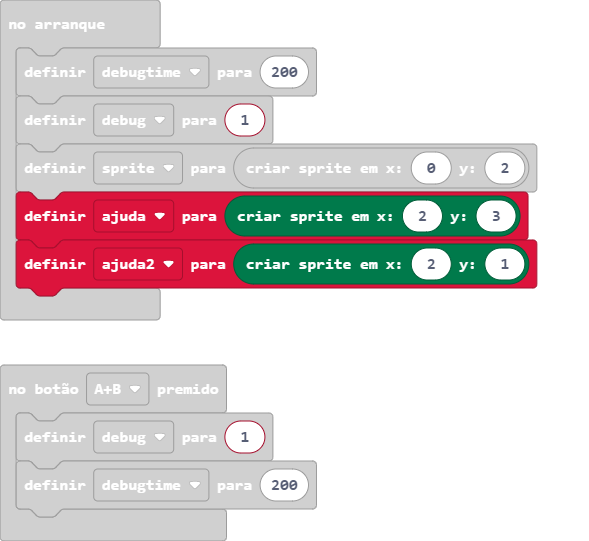
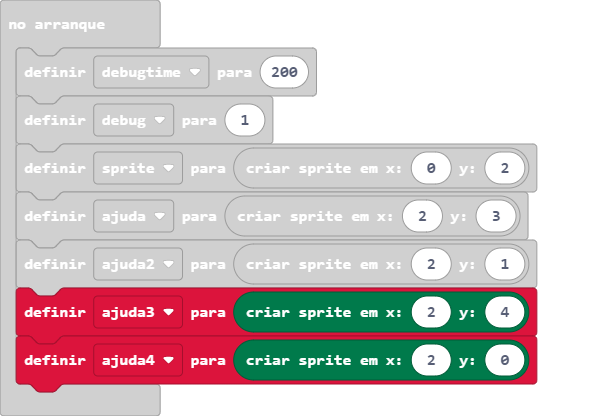
just visual stuff

diff --git a/main.ts b/main.ts
@@ -21,6 +21,8 @@ debug = 1
 sprite = game.createSprite(0, 2)
 let ajuda = game.createSprite(2, 3)
 let ajuda2 = game.createSprite(2, 1)
+let ajuda3 = game.createSprite(2, 4)
+let ajuda4 = game.createSprite(2, 0)
 basic.forever(function () {
     pins.analogWritePin(AnalogPin.P0, Math.abs(game.score()))
 })
